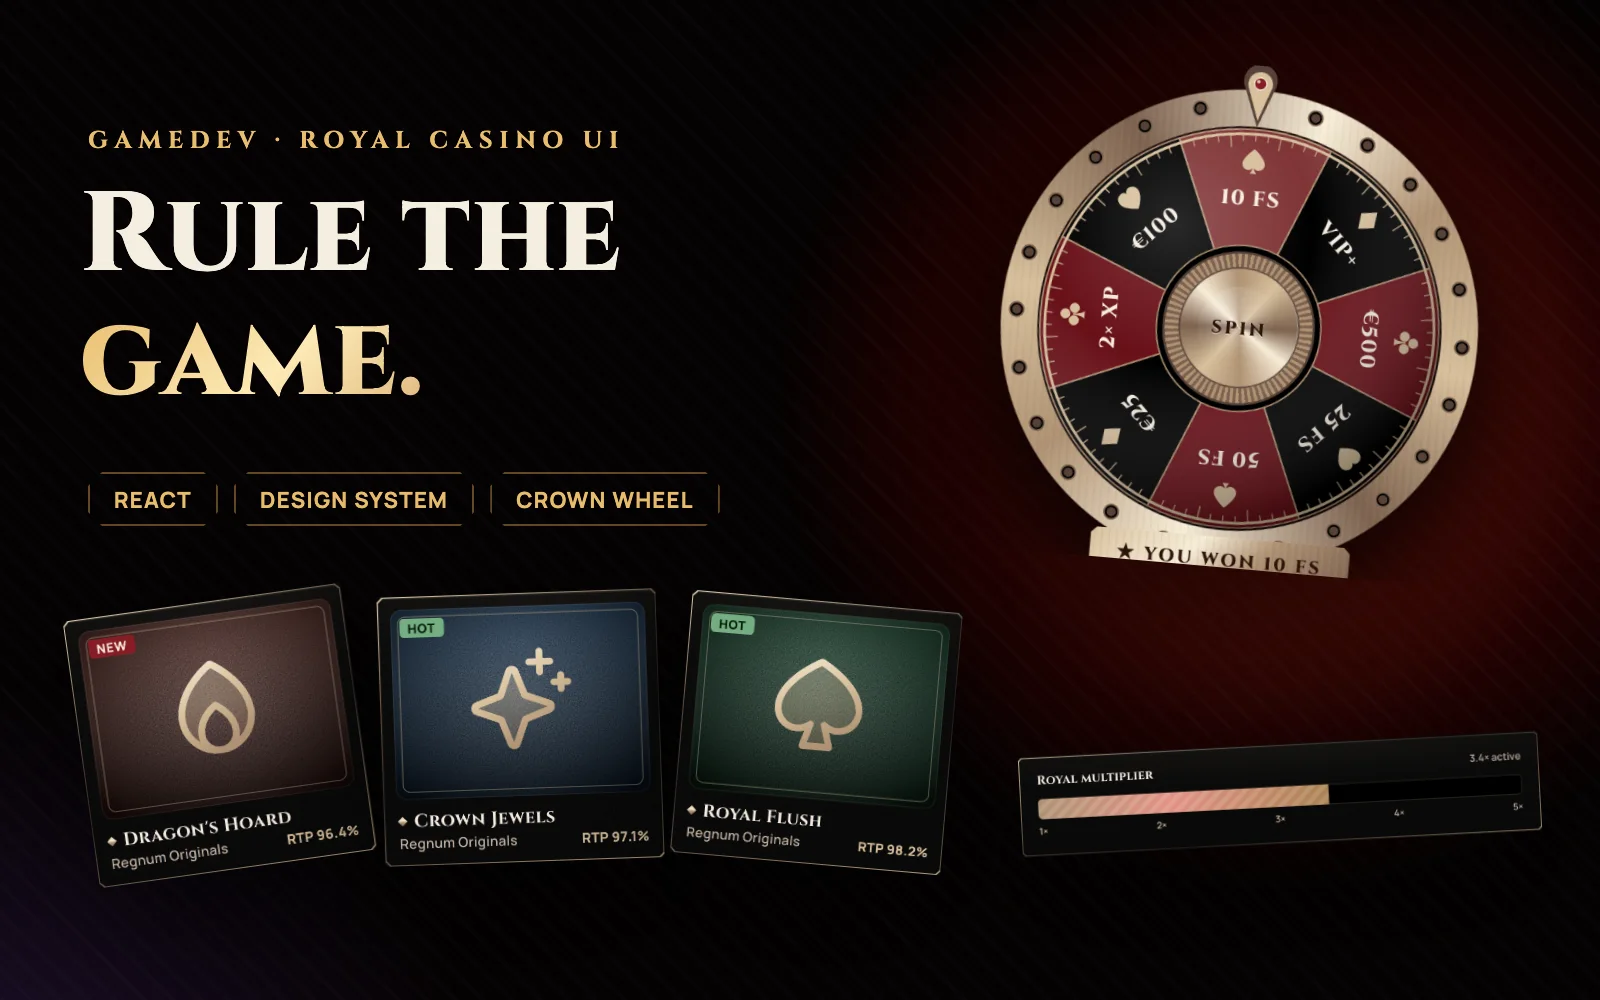
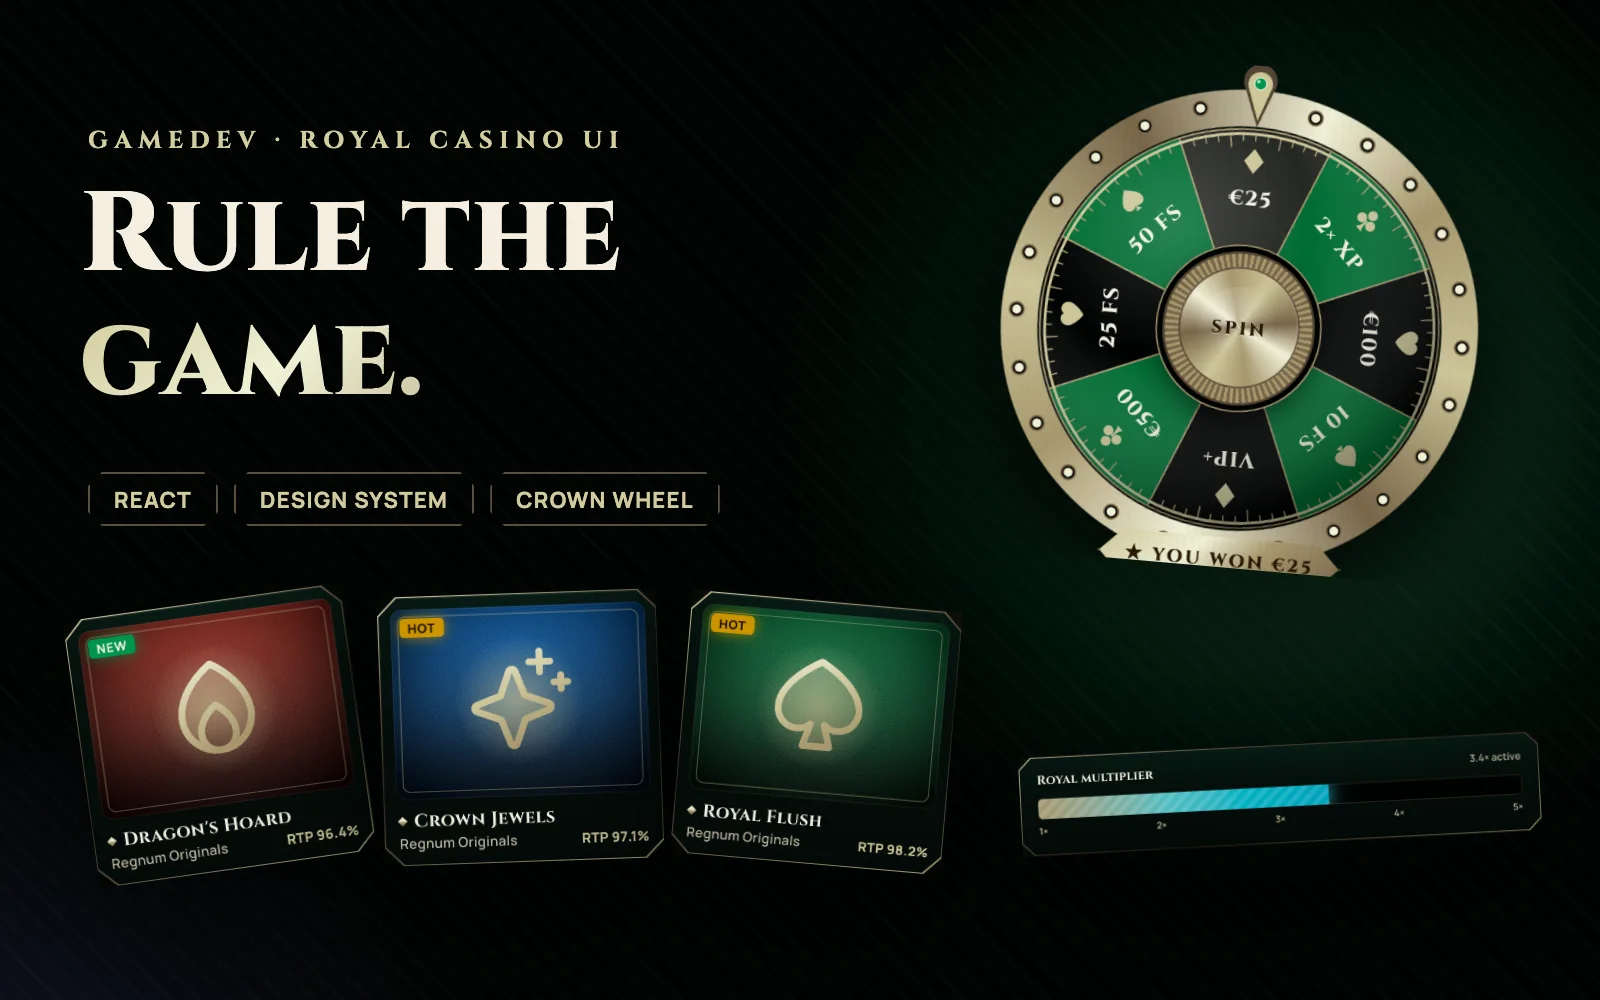
feat(regnum): Elven is the default theme
Elijah: 'green is the top style — make it default'. :root now carries the Elven knobs (moon-silver metal, emerald,
pine-black, Uncial logo, Cormorant display, glows + dust on); Noir/Royal/Arcane remain as presets in the lab.
THEMES order elven first; storage key → v3 so earlier saved looks don't override the new default.
Cover recomposed in Elven tones. 30 tests green (type audit passes in Elven).

Claude-Session: https://claude.ai/code/session_01LctZPao52rXfXx1JX6znjV

diff --git a/public/demos/regnum/ds/components.js b/public/demos/regnum/ds/components.js
@@ -13,9 +13,9 @@ export { LINE, SUITS, PH, PORTRAITS, html };
 
 /* ───────────────────────────── Темы и ручки ───────────────────────────── */
 export const THEMES = [
+  { id: 'elven', name: 'Elven', note: 'лунное серебро · изумруд · хвоя' },
   { id: 'noir', name: 'Noir', note: 'шампань · бордо · чёрный бархат, без свечений' },
   { id: 'royal', name: 'Royal', note: 'золото · рубин · королевская ночь' },
-  { id: 'elven', name: 'Elven', note: 'лунное серебро · изумруд · хвоя' },
   { id: 'arcane', name: 'Arcane', note: 'серебро-лёд · аметист · индиго' },
 ];
 // Ручки, которые крутит лаба. Всё остальное в tokens.css выводится из них.
@@ -43,13 +43,13 @@ export const KNOBS = [
   { v: '--cut', label: 'Corner cut', min: 0, max: 28, step: 1, unit: 'px', group: 'Light & form' },
   { v: '--ornament', label: 'Ornament', min: 0, max: 1, step: 0.05, group: 'Light & form' },
 ];
-const LS = 'regnum-ds-look-v2';   // v2: тема по умолчанию стала noir — старые подкрутки не тянем
+const LS = 'regnum-ds-look-v3';   // v3: тема по умолчанию стала elven — старые подкрутки не тянем
 // look = { theme: 'royal', vars: { '--metal-h': '120', … } } — общий для демо и лабы (один origin)
-export function loadLook() { try { return JSON.parse(localStorage.getItem(LS)) || { theme: 'noir', vars: {} }; } catch { return { theme: 'noir', vars: {} }; } }
+export function loadLook() { try { return JSON.parse(localStorage.getItem(LS)) || { theme: 'elven', vars: {} }; } catch { return { theme: 'elven', vars: {} }; } }
 export function saveLook(look) { try { localStorage.setItem(LS, JSON.stringify(look)); } catch { /* приватный режим — живём без памяти */ } }
 export function applyLook(look) {
   const r = document.documentElement;
-  r.dataset.theme = look.theme || 'noir';
+  r.dataset.theme = look.theme || 'elven';
   KNOBS.forEach(({ v }) => r.style.removeProperty(v));
   Object.entries(look.vars || {}).forEach(([v, x]) => r.style.setProperty(v, x));
 }

diff --git a/public/demos/regnum/ds/tokens.css b/public/demos/regnum/ds/tokens.css
@@ -15,10 +15,10 @@
   --ease: cubic-bezier(.22,1,.36,1);
   --dur-fast: .2s; --dur: .35s; --dur-slow: .6s;
 }
-/* ── Тема по умолчанию — NOIR: дорогой минимализм. Почти чёрный, шампань-латунь, бордо.
+/* ── NOIR: дорогой минимализм. Почти чёрный, шампань-латунь, бордо.
    Без свечений и теней (--glow:0, --depth:0), эффекты выключены (--fx:none — не рисуются вовсе),
    вместо них — фактура: зерно, шлифованный металл, гравировка (--texture). ── */
-:root, [data-theme="noir"]{
+[data-theme="noir"]{
   --metal-h: 78;   --metal-c: .055;    /* металл: 82 = золото, 78/.055 = шампань-латунь, 215/.05 = серебро-лёд */
   --accent-h: 22;  --accent-c: .14;    /* действие: 22/.14 = бордо, 27/.22 = рубин */
   --accent-l: -17%;                    /* светлота акцента: минус — глубже (бордо вместо красного) */
@@ -50,7 +50,7 @@
   --f-logo: 'Cinzel Decorative', serif; --f-display: 'Cinzel', serif; --f-head: 'Cinzel', serif;
 }
 /* ── Фэнтези-черновики ── */
-[data-theme="elven"]{   /* Эльфийский лес: лунное серебро-золото, изумруд, хвоя */
+:root, [data-theme="elven"]{   /* ПО УМОЛЧАНИЮ (слово Элайджи 2026-11-27: «зелёный — топовый стиль»). Эльфийский лес: лунное серебро-золото, изумруд, хвоя */
   --metal-h: 100; --metal-c: .06;
   --accent-h: 155; --accent-c: .16; --accent-l: 0%; --fire-h: 130; --gem-h: 200;
   --surface-h: 165; --surface-c: .02; --surface-l: 0%;

diff --git a/public/demos/regnum/index.html b/public/demos/regnum/index.html
@@ -1,5 +1,5 @@
 <!doctype html>
-<html lang="en" data-theme="noir">
+<html lang="en" data-theme="elven">
 <head>
 <meta charset="utf-8">
 <meta name="viewport" content="width=device-width, initial-scale=1">
@@ -20,7 +20,7 @@
 }
 </script>
 <!-- тема/подкрутки из лабы — до первой отрисовки, чтобы не мигало -->
-<script>try{var L=JSON.parse(localStorage.getItem('regnum-ds-look-v2'));var q=new URLSearchParams(location.search).get('theme');if(q)L={theme:q,vars:{}};if(L){document.documentElement.dataset.theme=L.theme||'noir';for(var k in(L.vars||{}))document.documentElement.style.setProperty(k,L.vars[k]);}}catch(e){}</script>
+<script>try{var L=JSON.parse(localStorage.getItem('regnum-ds-look-v3'));var q=new URLSearchParams(location.search).get('theme');if(q)L={theme:q,vars:{}};if(L){document.documentElement.dataset.theme=L.theme||'elven';for(var k in(L.vars||{}))document.documentElement.style.setProperty(k,L.vars[k]);}}catch(e){}</script>
 <link rel="stylesheet" href="ds/tokens.css">
 <link rel="stylesheet" href="ds/components.css">
 <style>

diff --git a/public/demos/regnum/lab/index.html b/public/demos/regnum/lab/index.html
@@ -1,5 +1,5 @@
 <!doctype html>
-<html lang="en" data-theme="noir">
+<html lang="en" data-theme="elven">
 <head>
 <meta charset="utf-8">
 <meta name="viewport" content="width=device-width, initial-scale=1">
@@ -20,7 +20,7 @@
   }
 }
 </script>
-<script>try{var L=JSON.parse(localStorage.getItem('regnum-ds-look-v2'));if(L){document.documentElement.dataset.theme=L.theme||'noir';for(var k in(L.vars||{}))document.documentElement.style.setProperty(k,L.vars[k]);}}catch(e){}</script>
+<script>try{var L=JSON.parse(localStorage.getItem('regnum-ds-look-v3'));if(L){document.documentElement.dataset.theme=L.theme||'elven';for(var k in(L.vars||{}))document.documentElement.style.setProperty(k,L.vars[k]);}}catch(e){}</script>
 <link rel="stylesheet" href="../ds/tokens.css">
 <link rel="stylesheet" href="../ds/components.css">
 <style>
